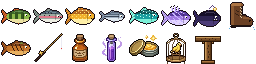
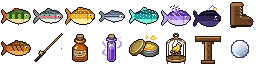
Cycle 15: hazards in the loop, cave pearls, review fixes
Journal pages for the canary and Timber Props. Sealed water pockets wash
out 1-3 Cave Pearls (15 Lumen) the first time they are breached, once per
pocket, saved. Fixes from a code review of the hazard systems:
- old-save migration judges each gas seam and water pocket whole (with
  its rock ring) and leaves touched ones alone; roof gas near the saved
  position or fires is cleared; pocket tiles are no longer pool tiles
- never wake at a flooded bed
- falling rock shatters in water and never lands inside a creature
- a body of water too big to trace is not a sealed pocket
- gas leaves the top and sides of the simulated window
- a flash only runs through gas in open air
- the water row wake stops at the first wall

Changed region(s): [[0.875, 0.625, 1.0, 0.9062]]

diff --git a/src/save.ts b/src/save.ts
@@ -81,14 +81,17 @@ export function loadGame(): { p: Progress; world: World } | null {
     const sk = data.p.skills as Partial<Progress['skills']>;
     if (!sk.fishing) sk.fishing = { lvl: 1, xp: 0 };
     const world = generateWorld(data.p.seed);
+    const aquifers = data.flood ? [] : world.aquifers;
+    const pocketTile = new Set(world.aquifers);
     // worlds saved before there was water get the cave pools wherever that space is still open
+    // (pools only: the sealed pockets are handled on their own below)
     const pools: number[] = [];
-    if (!data.water) for (let i = 0; i < world.fg.length; i++) if (world.fg[i] === B.WATER) pools.push(i);
+    if (!data.water) for (let i = 0; i < world.fg.length; i++) if (world.fg[i] === B.WATER && !pocketTile.has(i)) pools.push(i);
     const gassy: number[] = [];
     if (!data.gas) for (let i = 0; i < world.gas.length; i++) if (world.gas[i]) gassy.push(i);
-    // worlds from before bad ground keep the generated loose rock only where the rock is untouched
-    const genFg = data.loose ? null : world.fg.slice();
-    const aquifers = data.flood ? [] : world.aquifers;
+    // the world as it was made, for the migrations that ask "is this still untouched?"
+    const made = data.loose && data.gas ? null : world.fg.slice();
+    const genFg = data.loose ? null : made;
     unrle(data.fg, world.fg);
     if (data.wall) unrle(data.wall, world.wall);
     unrle(data.obj, world.obj);
@@ -99,31 +102,37 @@ export function loadGame(): { p: Progress; world: World } | null {
     if (data.placed) unrle(data.placed, world.placed);
     for (const i of pools) if (world.fg[i] === B.AIR && !world.obj[i] && !world.rail[i]) world.fg[i] = B.WATER;
     if (data.gas) unrle(data.gas, world.gas);
-    else {
-      // a world from before firedamp: open its seams where the rock is still as it was made
-      // (but never right beside a torch or fire the player has put up since, nor in their buildings)
-      for (const i of gassy) {
-        const x = i % world.w;
-        const y = (i - x) / world.w;
-        const def = BLOCKS[world.fg[i]];
-        if (!farFromFlame(world, x, y, 8) || world.placed[i] || world.placed[i - world.w]) world.gas[i] = 0;
-        else if (def.solid && !def.unbreakable && !world.obj[i] && !world.rail[i]) world.fg[i] = B.AIR;
-        else if (def.solid || world.fg[i] === B.WATER || world.fg[i] === B.LAVA) world.gas[i] = 0;
+    else if (made) {
+      // a world from before firedamp, one cloud at a time. A sealed seam opens only if it and the
+      // rock all round it are still as they were made; gas under a cave roof stays only where that
+      // air is still open, away from any fire you have lit, your buildings and where you stood.
+      for (const cloud of groups(gassy, world.w)) {
+        const set = new Set(cloud);
+        const seam = cloud.every((i) => ring4(i, world.w).every((j) => set.has(j) || BLOCKS[made[j]].solid));
+        if (seam) {
+          const whole = cloud.every((i) => untouchedRock(world, i)) && cloud.every((i) => ring8(i, world.w).every((j) => set.has(j) || untouchedRock(world, j)));
+          for (const i of cloud) {
+            if (whole) world.fg[i] = B.AIR;
+            else world.gas[i] = 0;
+          }
+          continue;
+        }
+        for (const i of cloud) {
+          const x = i % world.w;
+          const y = (i - x) / world.w;
+          const nearYou = Math.abs(x * 32 - data.p.px) < 12 * 32 && Math.abs(y * 32 - data.p.py) < 10 * 32;
+          if (world.fg[i] !== B.AIR || world.placed[i] || world.placed[i - world.w] || nearYou || !farFromFlame(world, x, y, 8)) world.gas[i] = 0;
+        }
       }
     }
     if (aquifers.length) {
-      // a world from before floodwater: fill its pockets where the rock all round is still whole
-      const pocket = new Set(aquifers);
-      for (const i of aquifers) {
-        const def = BLOCKS[world.fg[i]];
-        if (!def.solid || def.unbreakable || def.liquid || world.placed[i] || world.obj[i] || world.rail[i]) continue;
-        let sealed = true;
-        for (const j of [i - 1, i + 1, i - world.w, i + world.w, i - world.w - 1, i - world.w + 1, i + world.w - 1, i + world.w + 1]) {
-          if (pocket.has(j)) continue;
-          const d = BLOCKS[world.fg[j]];
-          if (!d.solid || d.liquid) sealed = false;
-        }
-        if (sealed) {
+      // a world from before floodwater: fill a pocket only if it and the rock all round it are
+      // still whole (never into a tunnel you have dug, never onto where you stand)
+      for (const pocket of groups(aquifers, world.w)) {
+        const set = new Set(pocket);
+        const whole = pocket.every((i) => untouchedRock(world, i)) && pocket.every((i) => ring8(i, world.w).every((j) => set.has(j) || untouchedRock(world, j)));
+        if (!whole) continue;
+        for (const i of pocket) {
           world.fg[i] = B.WATER;
           world.gas[i] = 0;
         }
@@ -143,6 +152,41 @@ export function loadGame(): { p: Progress; world: World } | null {
     console.warn('save load failed', e);
     return null;
   }
+}
+
+/** the given tiles, in 4-connected groups */
+function groups(tiles: number[], W: number): number[][] {
+  const set = new Set(tiles);
+  const seen = new Set<number>();
+  const out: number[][] = [];
+  for (const s of tiles) {
+    if (seen.has(s)) continue;
+    const g: number[] = [];
+    const q = [s];
+    seen.add(s);
+    while (q.length) {
+      const i = q.pop() as number;
+      g.push(i);
+      for (const j of [i - 1, i + 1, i - W, i + W]) {
+        if (set.has(j) && !seen.has(j)) {
+          seen.add(j);
+          q.push(j);
+        }
+      }
+    }
+    out.push(g);
+  }
+  return out;
+}
+
+const ring4 = (i: number, W: number): number[] => [i - 1, i + 1, i - W, i + W];
+const ring8 = (i: number, W: number): number[] => [i - 1, i + 1, i - W, i + W, i - W - 1, i - W + 1, i + W - 1, i + W + 1];
+
+/** natural rock nobody has touched: solid, not built, nothing standing in it */
+function untouchedRock(w: World, i: number): boolean {
+  if (i < 0 || i >= w.fg.length) return false;
+  const def = BLOCKS[w.fg[i]];
+  return def.solid && !def.liquid && !def.unbreakable && !w.placed[i] && !w.obj[i] && !w.rail[i];
 }
 
 export function deleteSave(): void {

diff --git a/src/game.ts b/src/game.ts
@@ -307,6 +307,9 @@ export class Game {
   private drownT = 0;
   private gaspReady = false;
   private gushT = 0;
+  /** the tiles of this world's sealed water pockets, as a set (built when first needed) */
+  private aqSet: Set<number> | null = null;
+  private aqWorld: World | null = null;
   parts: Particle[] = [];
   texts: FloatText[] = [];
   boss: Boss | null = null;
@@ -1369,7 +1372,7 @@ export class Game {
     this.wakeWater(x1, y1);
     // water further along the row was looking for a way out through the gap just left behind
     for (const d of [-1, 1]) {
-      for (let k = 2; k <= 12; k++) {
+      for (let k = 1; k <= 12; k++) {
         const b2 = w.get(x0 + d * k, y0);
         if (b2 === B.WATER) this.waterQ.add(w.idx(x0 + d * k, y0));
         else if (b2 !== B.AIR) break;
@@ -2379,6 +2382,7 @@ export class Game {
         }
         w.setObj(x, y, Obj.BEAM);
         w.decor[w.idx(x, y)] = 0;
+        this.p.seen.prop_placed = true;
         audio.play('door', { pitch: 0.75, vol: 0.55 });
         this.burst(x * TILE + 16, (propRoof(w, x, y) + 1) * TILE + 2, 8, ['#8a7f72', '#5a4a3a'], 50);
         this.hint('prop', 'The prop holds the roof over it, two tiles either side: loose rock it holds stays put while it stands. Knock it out and the roof is free to fall.');
@@ -3407,7 +3411,7 @@ export class Game {
     // beds are two tiles wide and you wake standing over the middle of them
     const bed = w.getObj(s.x, s.y) === Obj.BED;
     const cols = bed ? [s.x, s.x + 1] : [s.x];
-    const blocked = cols.some((x) => w.solid(x, s.y) || w.solid(x, s.y - 1));
+    const blocked = cols.some((x) => w.solid(x, s.y) || w.solid(x, s.y - 1) || w.get(x, s.y) === B.WATER || w.get(x, s.y - 1) === B.WATER);
     if (blocked) {
       const sp = worldSpawn(w);
       this.placePlayer(sp.x * TILE + TILE / 2, (sp.y + 1) * TILE);
@@ -3965,7 +3969,7 @@ export class Game {
       tiles++;
       mass += w.gas[i];
       for (const j of [i - 1, i + 1, i - W, i + W]) {
-        if (j < 0 || j >= w.gas.length || seen.has(j) || w.gas[j] < GAS_BURN) continue;
+        if (j < 0 || j >= w.gas.length || seen.has(j) || w.gas[j] < GAS_BURN || !gasOpen(w, j)) continue;
         seen.add(j);
         q.push(j);
       }
@@ -3991,7 +3995,7 @@ export class Game {
       for (const i of f.front) {
         this.burnTile(i, f);
         for (const j of [i - 1, i + 1, i - W, i + W]) {
-          if (j < 0 || j >= w.gas.length || f.seen.has(j) || w.gas[j] < GAS_BURN) continue;
+          if (j < 0 || j >= w.gas.length || f.seen.has(j) || w.gas[j] < GAS_BURN || !gasOpen(w, j)) continue;
           f.seen.add(j);
           next.push(j);
         }
@@ -4131,6 +4135,7 @@ export class Game {
       c.mood = 'none';
       return;
     }
+    this.p.seen.had_canary = true;
     const w = this.world;
     c.smell = sniff(w, tx, ty, 7);
     const here = w.inside(tx, ty) ? w.gas[w.idx(tx, ty)] : 0;
@@ -4239,6 +4244,7 @@ export class Game {
           } else if (!BLOCKS[b].solid) sealed = false;
         }
       }
+      if (seen.size >= 160) sealed = false;
       if (!sealed) continue;
       const cx = (x + 0.5) * TILE;
       const cy = (y + 0.5) * TILE;
@@ -4254,8 +4260,28 @@ export class Game {
         this.parts.push({ x: cx, y: cy, vx: Math.cos(a) * sp, vy: Math.sin(a) * sp - 40, life, max: life, color: Math.random() < 0.5 ? '#9fd8ff' : '#e8f6ff', size: 2, grav: 600, glow: false });
       }
       this.hint('flood', 'Water bursts from the rock! A tunnel can fill over your head: climb out, or swim up with Space. Rock that looks dark and wet is weeping: there is water close behind it.');
+      this.washPearls(seen, cx, cy);
       return;
     }
+  }
+
+  /** a pocket that has never been broken into washes out the pearls that grew in it */
+  private washPearls(body: Set<number>, cx: number, cy: number): void {
+    const w = this.world;
+    if (this.aqWorld !== w || !this.aqSet) {
+      this.aqSet = new Set(w.aquifers);
+      this.aqWorld = w;
+    }
+    let key = -1;
+    for (const i of body) if (this.aqSet.has(i) && (key < 0 || i < key)) key = i;
+    if (key < 0) return;
+    const done = (this.p.pearled ??= []);
+    if (done.includes(key)) return;
+    done.push(key);
+    const n = 1 + Math.min(2, Math.floor(body.size / 20));
+    for (let k = 0; k < n; k++) this.drops.push(new Drop('pearl', 1, cx + (Math.random() - 0.5) * 16, cy + (Math.random() - 0.5) * 10));
+    this.burst(cx, cy, 10, ['#e8f4ff', '#cfe8ff', '#ffffff'], 90, true);
+    this.hint('pearl', 'Cave pearls! They grow in water sealed in the rock and hold a soft light: the Wick takes them as Lumen. Weeping rock is worth breaking into, if you are ready for the flood.');
   }
 
   /** your head under water: you hold your breath, then you drown */
@@ -4368,7 +4394,8 @@ export class Game {
     // rubble buries rails and knocks small things flat; it will not land on anything bigger
     const o = w.obj[i];
     const crushable = !o || CRUSHABLE.has(o);
-    const room = !BLOCKS[fg].solid && fg !== B.LAVA && crushable && !onPlayer && !this.isProtected(x, y);
+    const onEnemy = this.enemies.some((e) => !e.dead && Math.abs(e.cx - cx) < 16 + e.w / 2 && e.y < (y + 1) * TILE && e.y + e.h > y * TILE);
+    const room = fg === B.AIR && crushable && !onPlayer && !onEnemy && !this.isProtected(x, y);
     if (room && !def.ore && !def.light) {
       if (o) this.breakObj(x, y, true);
       if (w.rail[i]) {

diff --git a/src/data/journal.ts b/src/data/journal.ts
@@ -93,6 +93,13 @@ export const CHAPTERS: Chapter[] = [
         coins: 30,
       },
       {
+        id: 'canary',
+        text: 'Carry a canary',
+        how: 'Below about 22m, firedamp (mine gas) waits sealed in the rock, and an open flame sets it off. Old Pell sells a canary: in your pack it smells gas through rock and sings faster the closer it is. Your lantern never lights the gas; a torch does.',
+        progress: (g) => flag(!!g.p.seen.had_canary || count(g.p, 'canary') > 0),
+        coins: 40,
+      },
+      {
         id: 'offer',
         text: 'Feed the Wick something that glows',
         how: 'Glowcaps, jade, amethyst, glowfin and Gloam Motes all hold light. Press E at the Wick to offer them.',
@@ -131,6 +138,13 @@ export const CHAPTERS: Chapter[] = [
         how: 'A Furnace (16 Stone, 4 Wood, 3 Torches at a Workbench) turns 2 Copper ore into a bar. Copper is the orange-flecked rock.',
         progress: (g) => flag(!!g.p.seen.made_copperbar || count(g.p, 'copperbar') > 0 || g.st.pickTier >= 2),
         coins: 50,
+      },
+      {
+        id: 'prop',
+        text: 'Shore up bad ground',
+        how: 'Cracked rock is loose: dig out what holds it up and it comes down on you. Make Timber Props by hand (3 Wood makes 2) and stand one under a bad roof; its cap board holds two tiles either side. Wet, weeping rock means water behind it.',
+        progress: (g) => flag(!!g.p.seen.prop_placed),
+        coins: 35,
       },
       {
         id: 'lantern',

diff --git a/src/data/items.ts b/src/data/items.ts
@@ -101,6 +101,7 @@ const LIST: Record<string, Partial2> = {
   coal: { name: 'Coal', icon: i16(0), kind: 'material', value: 2, desc: 'Fuel for torches and furnaces.' },
   copper: { name: 'Copper Ore', icon: i16(1), kind: 'material', value: 3, desc: 'Smelt it into bars at a furnace.' },
   iron: { name: 'Iron Ore', icon: i16(2), kind: 'material', value: 8, desc: 'Smelt with coal for iron bars.' },
+  pearl: { name: 'Cave Pearl', icon: { sheet: 'f32', idx: 15 }, kind: 'material', value: 30, desc: 'Grows layer on layer in still water sealed in the rock, and holds a soft light. It washes out when you break into the pocket. The Wick takes it gladly.', glow: '#cfe8ff', stack: 99 },
   jade: { name: 'Jade', icon: i16(3), kind: 'material', value: 18, desc: 'Grows in the damp of the grotto.', glow: '#5af08a' },
   silver: { name: 'Silver Ore', icon: i16(4), kind: 'material', value: 20, desc: 'Rings like a bell when struck.' },
   amethyst: { name: 'Amethyst', icon: i16(5), kind: 'material', value: 38, desc: 'Hums faintly in the dark.', glow: '#c27aff' },

diff --git a/src/world/gas.ts b/src/world/gas.ts
@@ -79,6 +79,28 @@ export function stepGas(w: World, x0: number, y0: number, x1: number, y1: number
       const k = y * ww + x;
       if (!open[k]) continue;
       const v = cur[k];
+      // at the top of the window, gas still rises out of it into open air above
+      if (y === 0 && v > 0) {
+        const ai = (y0 - 1) * WORLD_W + x + x0;
+        if (gasOpen(w, ai) && v > g[ai]) {
+          const f = Math.floor((v - g[ai]) * 0.4);
+          if (f) {
+            nxt[k] -= f;
+            g[ai] = Math.min(255, g[ai] + f);
+          }
+        }
+      }
+      // and spreads out of its sides
+      if ((x === 0 || x === ww - 1) && v > 0) {
+        const si = (y + y0) * WORLD_W + x + x0 + (x === 0 ? -1 : 1);
+        if (gasOpen(w, si) && v > g[si]) {
+          const f = Math.trunc((v - g[si]) * 0.16);
+          if (f) {
+            nxt[k] -= f;
+            g[si] = Math.min(255, g[si] + f);
+          }
+        }
+      }
       // with the tile above: gas rises
       if (y > 0 && open[k - ww]) {
         const u = cur[k - ww];

diff --git a/src/state.ts b/src/state.ts
@@ -68,6 +68,8 @@ export interface Progress {
   bossDefeated: boolean;
   /** the boss died but its reward was not handed over yet (saved so it can't be lost) */
   bossRewardPending?: boolean;
+  /** sealed water pockets that have already washed out their pearls (keyed by their first tile) */
+  pearled?: number[];
   /** you have owned a lantern before (a new one comes full, a re-equipped one does not) */
   hadLantern?: boolean;
   seen: Record<string, boolean>;

diff --git a/src/data/wick.ts b/src/data/wick.ts
@@ -47,6 +47,7 @@ export const LUMEN: Record<string, number> = {
   gloammote: 6,
   glowfin: 12,
   jade: 12,
+  pearl: 15,
   gold: 10,
   essence: 18,
   amethyst: 18,

diff --git a/DESIGN.md b/DESIGN.md
@@ -87,4 +87,5 @@ the flame) decides how far the light reaches tomorrow.
 - [x] Cycle 12: firedamp and the canary. A mining hazard of its own: sweet, lighter-than-air mine gas sits sealed in pockets in the rock (often ringed with coal) and hangs under the roofs of some caves, from about 22m down through the Ember Depths. Break into a pocket and it hisses out, creeps up to the ceiling and along the tunnel as a pale drifting haze you can see wherever there is light. An open flame in it (a torch in your hand or on a wall, a campfire, a lamp, a furnace, lava, a bomb) sets off the whole connected cloud in a flash that rushes through it tile by tile: it burns whoever stands in it (harder the more gas there was; the first burn is softened), cracks the soft rock around dense gas, and shakes the screen; the lantern is a safety lamp and never lights it. Breathing thick gas wears your nerve down. Old Pell sells a canary (60 coins) that rides in a little cage on your back and smells gas through rock before you can see it: it sings calmly, chirps faster when it is uneasy, flaps and shrieks when gas is close, and faints if you stand in thick gas (HUD chip and the bird on your back show which). Only the area around you is simulated, a few times a second (under 0.1ms a step). Old saves open their seams where the rock is untouched and never beside a fire the player has lit. Also fixed across the whole game: the pixel font drew "fi" and "fl" as a capital A ("Arst", "Aame"); ligatures are now off.
 - [x] Cycle 13: bad ground. The second mine hazard after firedamp: some rock is cracked and loose (patches through the Topsoil Tunnels from 14m down to the Ember Depths, a halo around rich ore, and the roofs of the old mine drifts). It stays put only while something holds it up. Dig out the tile under it, or knock out the timber that props it, and it creaks, sheds dust and shudders for about a second, then drops: falling rock hurts whatever it lands on (harder the deeper you are), crushes torches, ladders and rails, and piles up as gravel you dig through by hand. What rested on it follows close behind, so a whole roof can come down in a chain and wall you in. Ore and glowing rock break into what you would have mined. A rock that lands in firedamp can strike a spark and set it off. Timber Props (3 wood makes 2, by hand; Old Pell sells them too) stand on a floor and hold the roof over them two tiles either side; the cap board along the roof shows exactly what a prop holds, in the placement preview too. The old drift frames are props now (they drop one when broken), and the bad roofs over them come down if you take them. Hover corners turn amber over anything whose removal would free loose rock. New PixelLab creak and rockfall sounds, a hand-drawn prop icon. Saves keep loose rock; older worlds get it only where the rock is untouched and held.
 - [x] Cycle 14: floodwater, the third mine hazard. Sealed pockets of water sit in the rock (about 22 a world, 19-49 tiles each: a few in the Topsoil Tunnels below 22m, most in the wet Mossroot Grotto, some in the Crystal Hollows). Rock with water close behind it weeps: it looks dark and wet, with seep streaks and glints, and its underside drips far more than dry rock, so a careful delver can tell. Break into a pocket and it bursts out with a gush and a spray and runs down into whatever you dug below it; a tunnel or pit can fill over your head. Under water you hold your breath: five bubbles over your head, two seconds each, flashing red on the last; then you drown (5 health a second, and your nerve goes too), and you gasp when you come up. Fixed a long-standing water bug on the way: water draining through a one-tile gap stalled after a tile or two, because the water waiting behind was never woken again (now the row is). New PixelLab gush and gasp sounds. Older worlds get the same pockets where the rock around them is still whole.
-- [ ] Cycle 15+: review cycles: balance, polish, audio, performance, content.
+- [x] Cycle 15: the delver's trade (review and integration). The three hazards now sit in the loop instead of beside it. The Journal teaches them: "Carry a canary" (Into the Dark, after 30m) and "Shore up bad ground" (The Long Descent, after the first copper bar); saves already past them skip them. Floodwater pays: a sealed pocket that has never been broken into washes out 1-3 Cave Pearls (15 Lumen each, a new hand-drawn icon), once per pocket and remembered in the save, so weeping rock is worth the risk. A fresh-eyes code review of the hazard systems found, and this cycle fixed: old saves could pour a water pocket or release a gas seam straight into a tunnel the player had already dug through it (each pocket and seam is now judged whole, with the rock round it, and left alone if touched; roof gas near where you stood or by your fires is cleared); you could wake at a bed under floodwater (you now wake at the meadow); a rock landing in water deleted that water (it now shatters), and rubble no longer lands inside a creature; a large open lake could set off the "water bursts" alarm; gas piled up against the top of the simulated area like an invisible ceiling; and a flash could run through stale gas outside open air.
+- [ ] Cycle 16+: review cycles: balance, polish, audio, performance, content.
